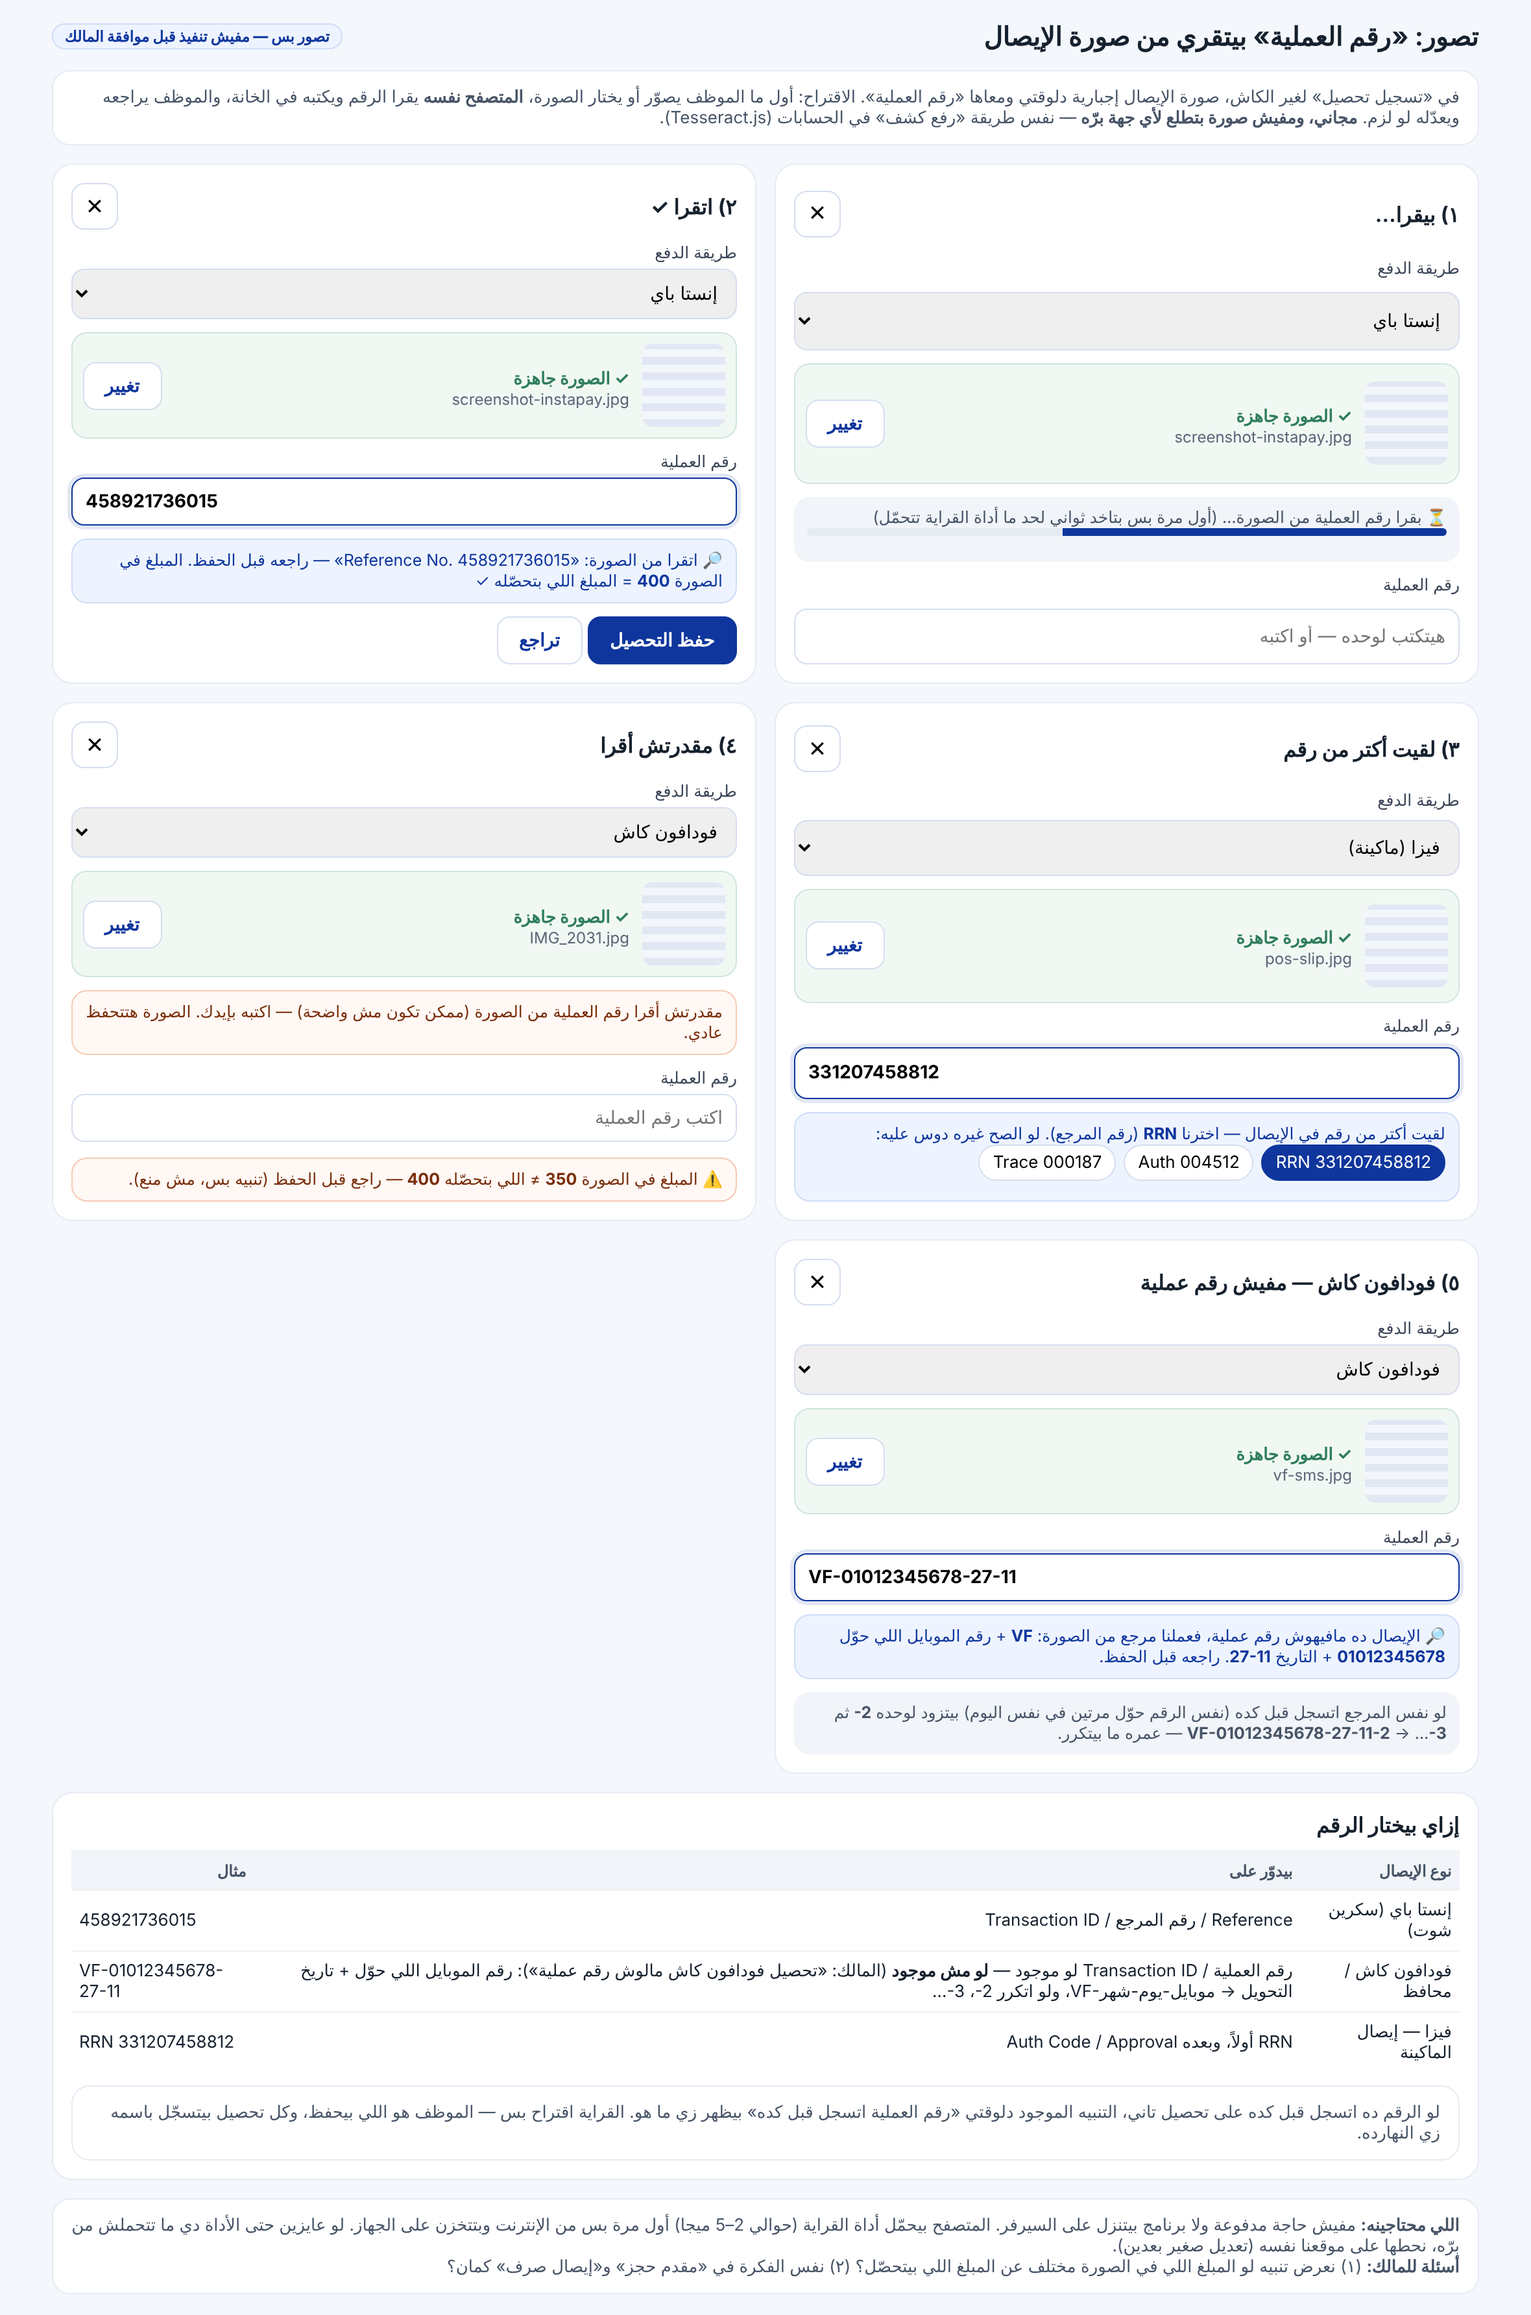
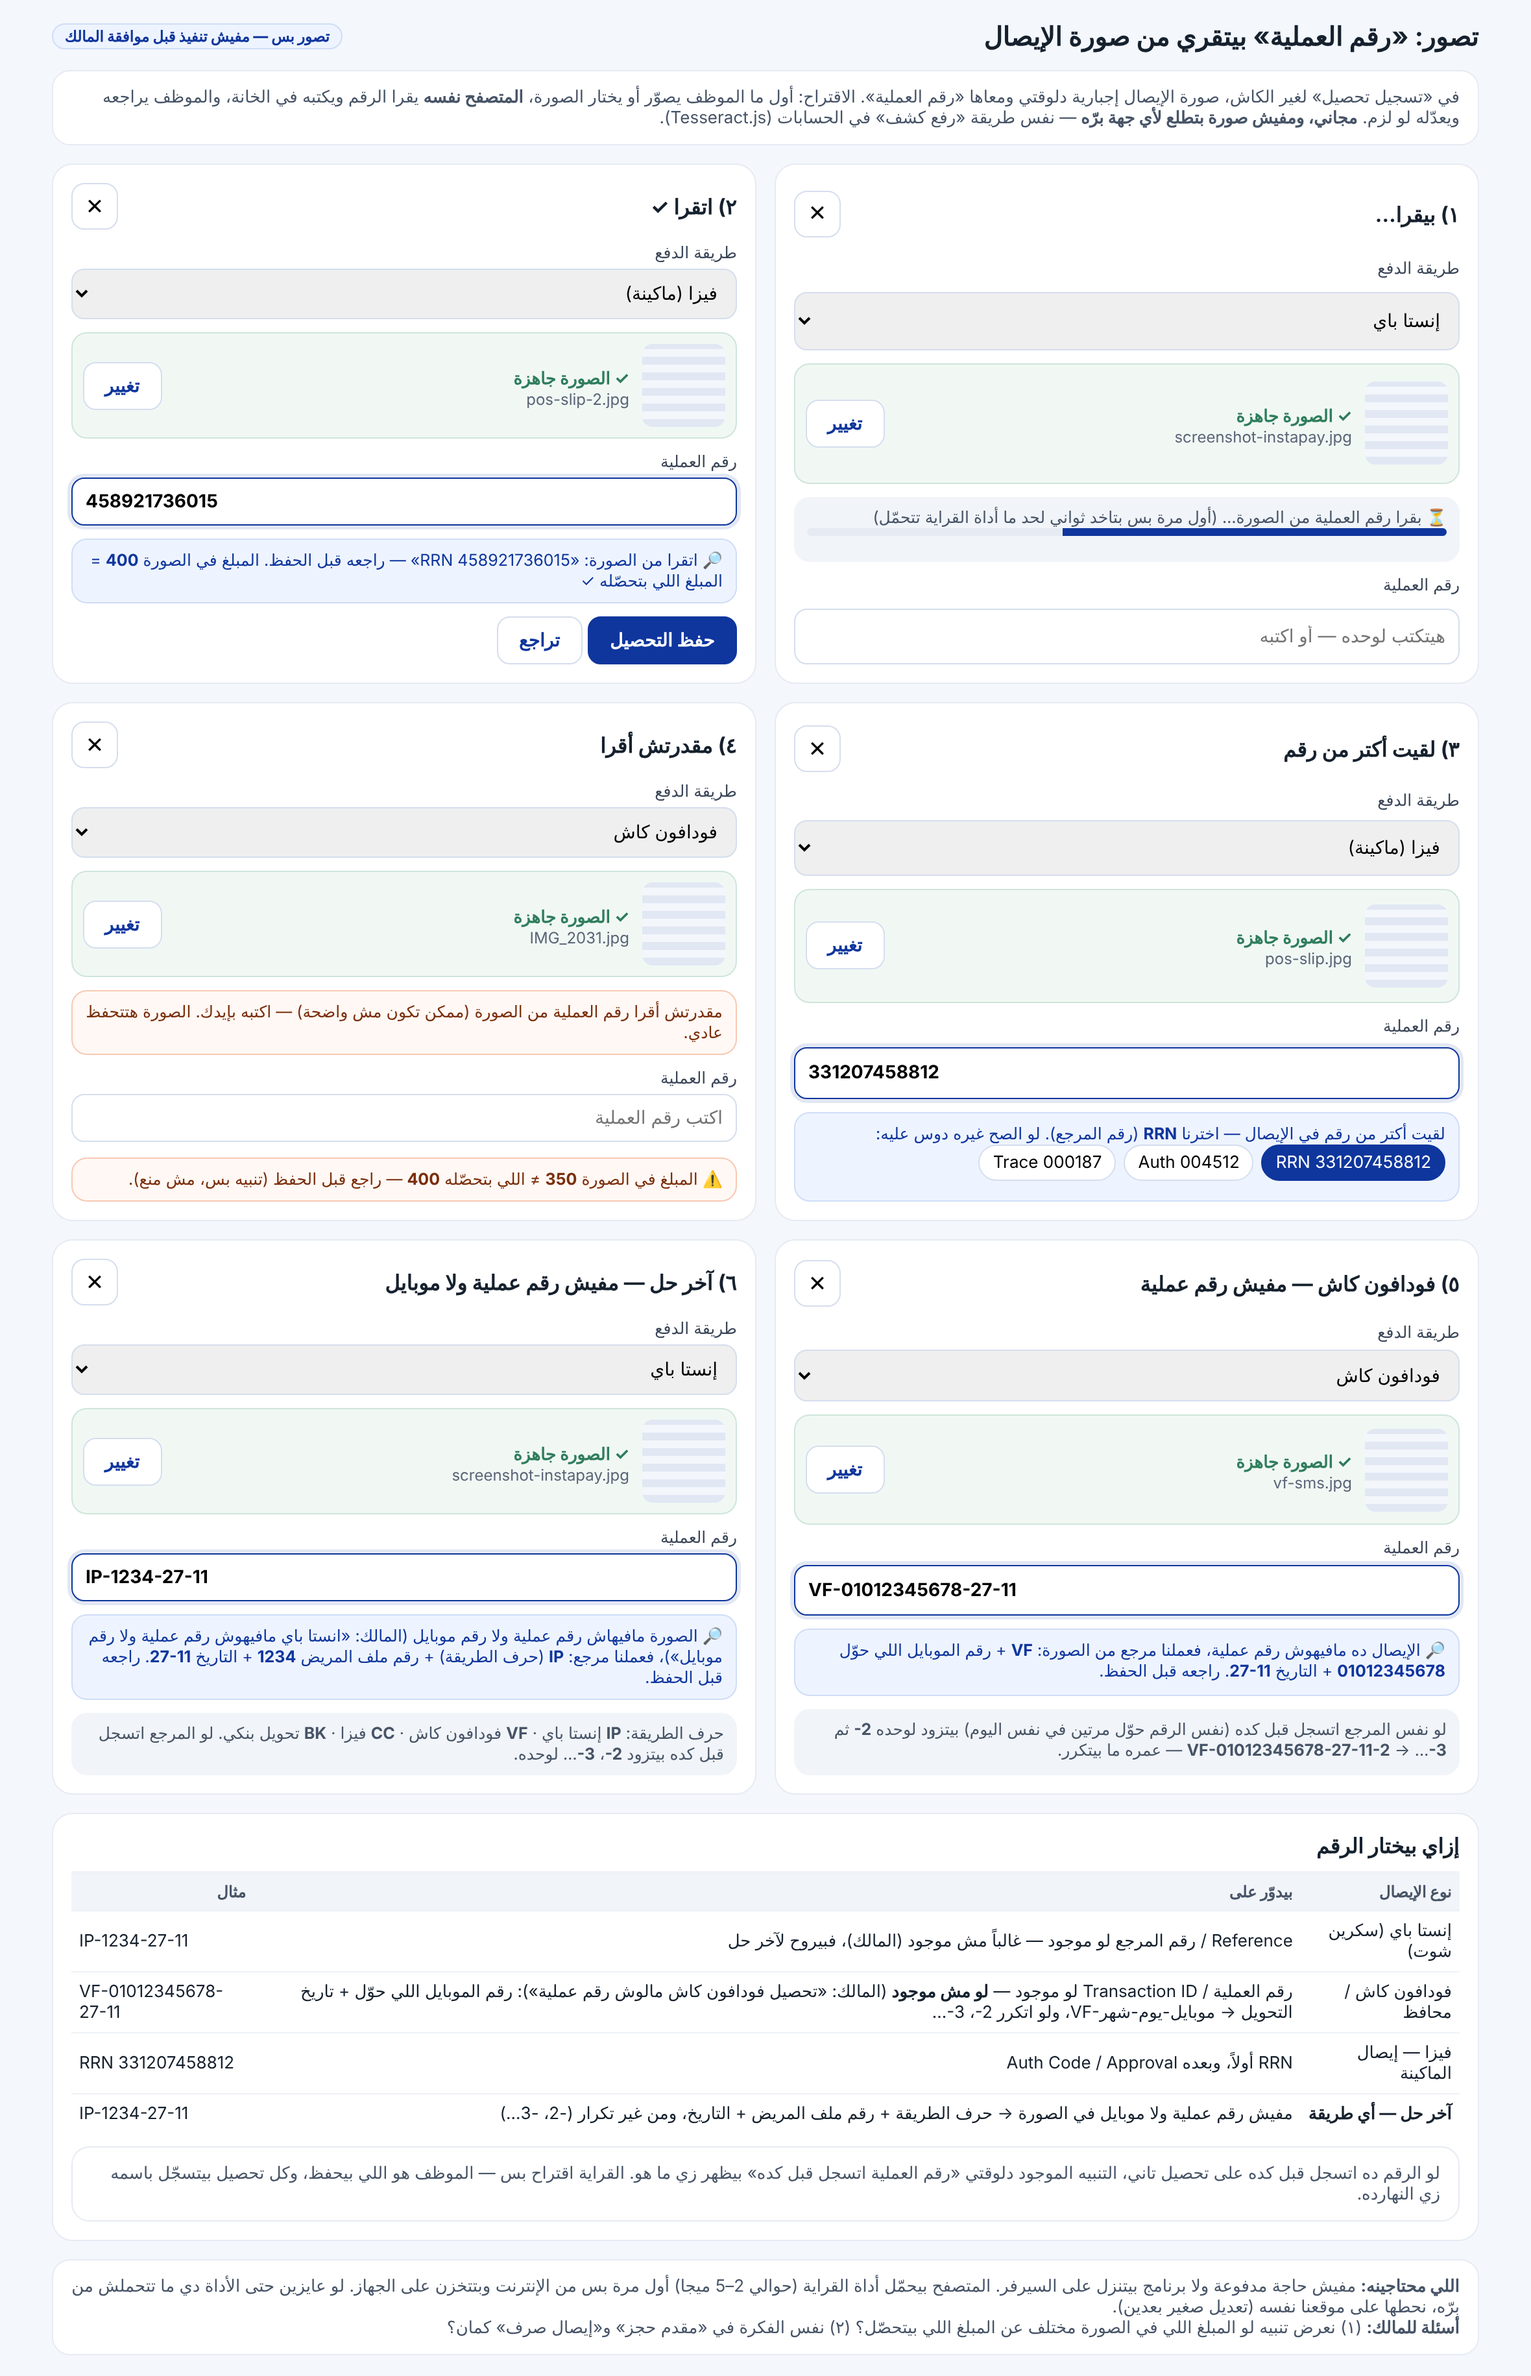
Mockup rev 3: last resort for any method — <letter>-<file no>-<dd-mm> (IP-1234-27-11), -2/-3 when repeated; InstaPay example fixed (owner: no number, no mobile)
Claude-Session: https://claude.ai/code/session_01UqVZHW6epYvnmo5ftQ9K3R

diff --git a/docs/ui-references/mockups/receipt-ocr.html b/docs/ui-references/mockups/receipt-ocr.html
@@ -34,10 +34,10 @@ table{width:100%;border-collapse:collapse;font-size:13px}td,th{border-top:1px so
    <label>رقم العملية<input placeholder="هيتكتب لوحده — أو اكتبه"></label>
   </div>
   <div class="card"><div class="mh"><h3>٢) اتقرا ✓</h3><button class="x" aria-label="إغلاق">✕</button></div>
-   <label>طريقة الدفع<select><option>إنستا باي</option></select></label>
-   <div class="done"><span class="thumb"></span><div><b>✓ الصورة جاهزة</b><small>screenshot-instapay.jpg</small></div><button class="btn" type="button">تغيير</button></div>
+   <label>طريقة الدفع<select><option>فيزا (ماكينة)</option></select></label>
+   <div class="done"><span class="thumb"></span><div><b>✓ الصورة جاهزة</b><small>pos-slip-2.jpg</small></div><button class="btn" type="button">تغيير</button></div>
    <label>رقم العملية<input class="filled" value="458921736015"></label>
-   <div class="read ok">🔎 اتقرا من الصورة: «Reference No. 458921736015» — راجعه قبل الحفظ. المبلغ في الصورة <b>400</b> = المبلغ اللي بتحصّله ✓</div>
+   <div class="read ok">🔎 اتقرا من الصورة: «RRN 458921736015» — راجعه قبل الحفظ. المبلغ في الصورة <b>400</b> = المبلغ اللي بتحصّله ✓</div>
    <div><button class="btn pri" type="button">حفظ التحصيل</button> <button class="btn" type="button">تراجع</button></div>
   </div>
   <div class="card"><div class="mh"><h3>٣) لقيت أكتر من رقم</h3><button class="x" aria-label="إغلاق">✕</button></div>
@@ -61,12 +61,20 @@ table{width:100%;border-collapse:collapse;font-size:13px}td,th{border-top:1px so
    <div class="read ok">🔎 الإيصال ده مافيهوش رقم عملية، فعملنا مرجع من الصورة: <b dir="ltr">VF</b> + رقم الموبايل اللي حوّل <b dir="ltr">01012345678</b> + التاريخ <b dir="ltr">27-11</b>. راجعه قبل الحفظ.</div>
    <div class="read wait">لو نفس المرجع اتسجل قبل كده (نفس الرقم حوّل مرتين في نفس اليوم) بيتزود لوحده <b dir="ltr">-2</b> ثم <b dir="ltr">-3</b>… → <b dir="ltr">VF-01012345678-27-11-2</b> — عمره ما بيتكرر.</div>
   </div>
+  <div class="card"><div class="mh"><h3>٦) آخر حل — مفيش رقم عملية ولا موبايل</h3><button class="x" aria-label="إغلاق">✕</button></div>
+   <label>طريقة الدفع<select><option>إنستا باي</option></select></label>
+   <div class="done"><span class="thumb"></span><div><b>✓ الصورة جاهزة</b><small>screenshot-instapay.jpg</small></div><button class="btn" type="button">تغيير</button></div>
+   <label>رقم العملية<input class="filled" value="IP-1234-27-11"></label>
+   <div class="read ok">🔎 الصورة مافيهاش رقم عملية ولا رقم موبايل (المالك: «انستا باي مافيهوش رقم عملية ولا رقم موبايل»)، فعملنا مرجع: <b dir="ltr">IP</b> (حرف الطريقة) + رقم ملف المريض <b dir="ltr">1234</b> + التاريخ <b dir="ltr">27-11</b>. راجعه قبل الحفظ.</div>
+   <div class="read wait">حرف الطريقة: <b dir="ltr">IP</b> إنستا باي · <b dir="ltr">VF</b> فودافون كاش · <b dir="ltr">CC</b> فيزا · <b dir="ltr">BK</b> تحويل بنكي. لو المرجع اتسجل قبل كده بيتزود <b dir="ltr">-2</b>، <b dir="ltr">-3</b>… لوحده.</div>
+  </div>
  </div>
  <div class="card"><h3>إزاي بيختار الرقم</h3>
   <table><thead><tr><th>نوع الإيصال</th><th>بيدوّر على</th><th>مثال</th></tr></thead><tbody>
-   <tr><td>إنستا باي (سكرين شوت)</td><td>Reference / رقم المرجع / Transaction ID</td><td dir="ltr">458921736015</td></tr>
+   <tr><td>إنستا باي (سكرين شوت)</td><td>Reference / رقم المرجع لو موجود — غالباً مش موجود (المالك)، فبيروح لآخر حل</td><td dir="ltr">IP-1234-27-11</td></tr>
    <tr><td>فودافون كاش / محافظ</td><td>رقم العملية / Transaction ID لو موجود — <b>لو مش موجود</b> (المالك: «تحصيل فودافون كاش مالوش رقم عملية»): رقم الموبايل اللي حوّل + تاريخ التحويل → <span dir="ltr">VF-موبايل-يوم-شهر</span>، ولو اتكرر <span dir="ltr">-2</span>، <span dir="ltr">-3</span>…</td><td dir="ltr">VF-01012345678-27-11</td></tr>
    <tr><td>فيزا — إيصال الماكينة</td><td>RRN أولاً، وبعده Auth Code / Approval</td><td dir="ltr">RRN 331207458812</td></tr>
+   <tr><td><b>آخر حل — أي طريقة</b></td><td>مفيش رقم عملية ولا موبايل في الصورة → حرف الطريقة + رقم ملف المريض + التاريخ، ومن غير تكرار (-2، -3…)</td><td dir="ltr">IP-1234-27-11</td></tr>
   </tbody></table>
   <p class="note">لو الرقم ده اتسجل قبل كده على تحصيل تاني، التنبيه الموجود دلوقتي «رقم العملية اتسجل قبل كده» بيظهر زي ما هو. القراية اقتراح بس — الموظف هو اللي بيحفظ، وكل تحصيل بيتسجّل باسمه زي النهارده.</p>
  </div>
